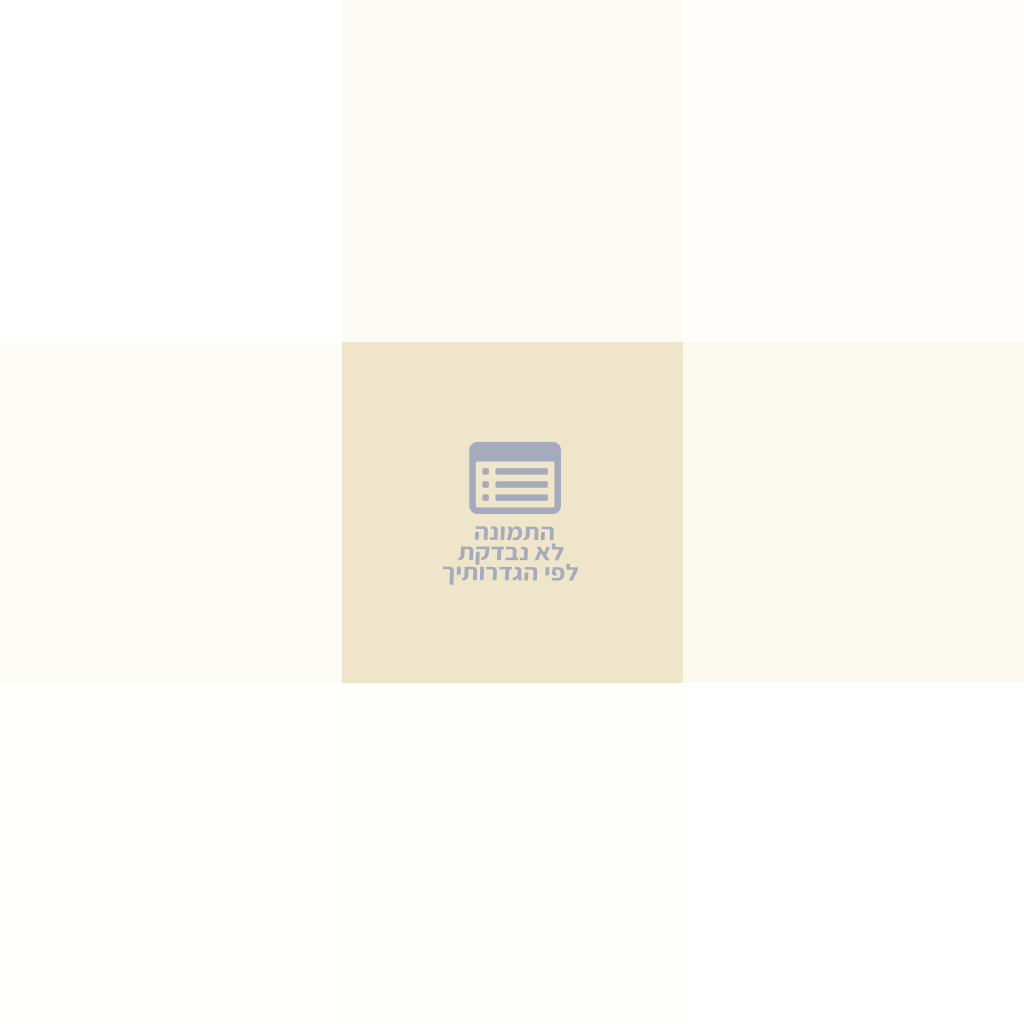
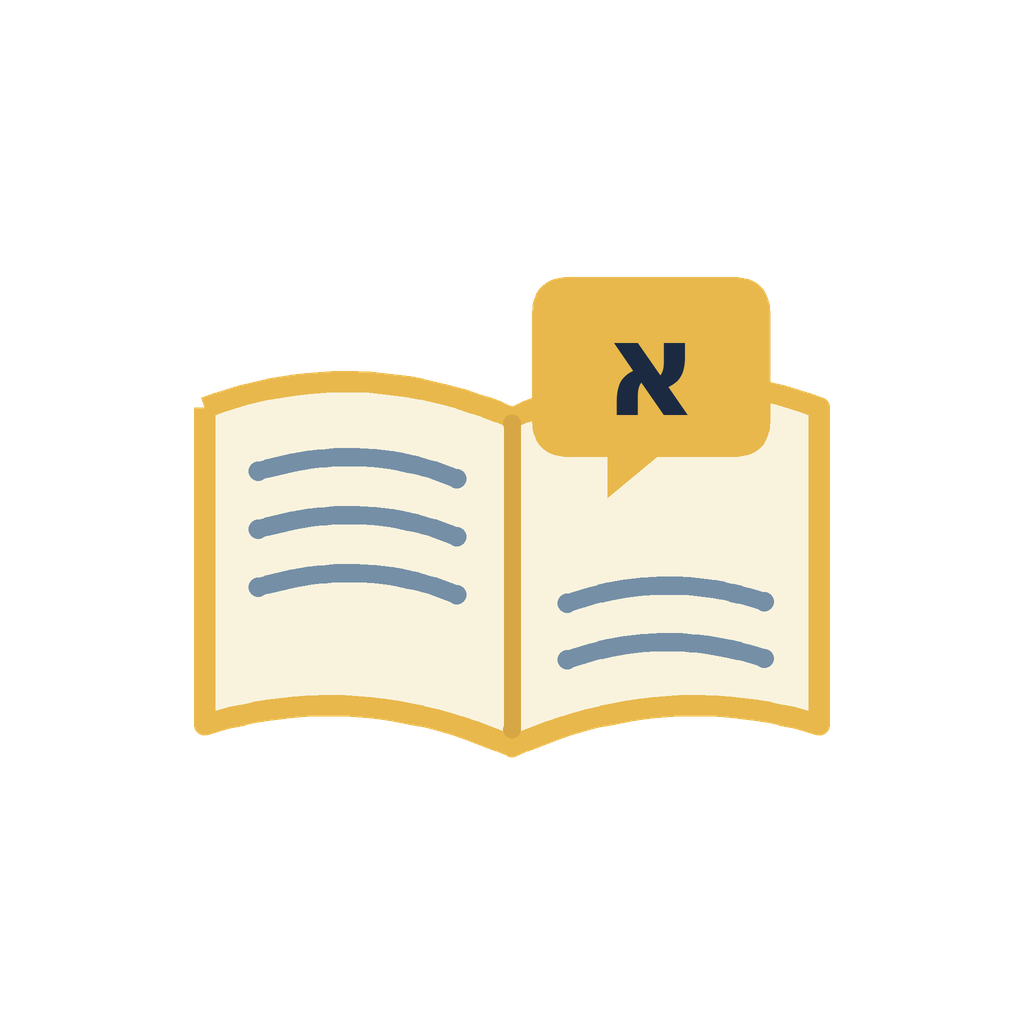
Add files via upload

Changed region(s): [[0.1875, 0.25, 0.8125, 0.75]]

diff --git a/App.js b/App.js
@@ -1,4 +1,4 @@
-import React, { useRef, useState, useEffect, useMemo, useCallback, createContext, useContext } from 'react';
+import React, { useRef, useState, useEffect, useMemo, useCallback, useDeferredValue, createContext, useContext } from 'react';
 import { View, Text, TouchableOpacity, Animated, TextInput, FlatList, StyleSheet, SafeAreaView, ScrollView, StatusBar, Alert, Share, BackHandler, Keyboard, Modal, Vibration, useColorScheme, useWindowDimensions, AppState } from 'react-native';
 import * as FS from 'expo-file-system';
 import RAW from './vocabulary.json';
@@ -131,10 +131,11 @@ function WordModal({ w, onClose }) {
 function Home({ pick, go }) {
   const { st, S, openWord } = useApp();
   const wod = DATA[dayNo() % DATA.length];
-  const done = DATA.filter((w) => S.learned[w.id]).length;
+  const done = useMemo(() => DATA.filter((w) => S.learned[w.id]).length, [S.learned]);
   const td = S.day === new Date().toDateString() ? S.today : 0;
   const goal = S.goal || 10;
-  const dueN = DATA.filter((w) => isDue(S, w.id)).length;
+  const dueN = useMemo(() => DATA.filter((w) => isDue(S, w.id)).length, [S.srs]);
+  const catStats = useMemo(() => TOPICS.map((c) => { const p = BYCAT[c.k] || []; return [p.length, p.filter((w) => S.learned[w.id]).length]; }), [S.learned]);
   const weakN = Object.keys(S.weak).length;
   const L = lvlInfo(S.xp);
   const week = [...Array(7)].map((_, i) => { const d = dayNo() - (6 - i); return { v: (S.hist || {})[d] || 0, l: DAYS[new Date(d * 864e5 + 432e5).getUTCDay()] }; });
@@ -185,17 +186,18 @@ function Home({ pick, go }) {
       <Text style={[st.h1, { marginTop: 10 }]}>קטגוריות</Text>
       <View style={st.grid}>
         {TOPICS.map((c, ix) => {
-          const p = poolOf(c.k, S), l = p.filter((w) => S.learned[w.id]).length;
+          const [n, l] = catStats[ix];
           return (
             <TouchableOpacity key={c.k} style={st.cat} onPress={() => pick(c.k)}>
               <View style={[st.strip, { backgroundColor: COL[ix % 6] }]} /><Text style={st.emoji}>{c.i}</Text>
               <Text style={st.catName}>{c.n}</Text>
-              <Text style={st.sub}>{l}/{p.length}</Text>
-              <Bar pct={p.length ? l / p.length : 0} color={COL[ix % 6]} />
+              <Text style={st.sub}>{l}/{n}</Text>
+              <Bar pct={n ? l / n : 0} color={COL[ix % 6]} />
             </TouchableOpacity>
           );
         })}
       </View>
+      <Text style={{ textAlign: 'center', fontSize: 10, color: st.softC, opacity: 0.7, marginTop: 18, marginBottom: 6 }}>קרדיט: יהודי לא פשוט @ מתמחים טופ</Text>
     </ScrollView>
   );
 }
@@ -508,7 +510,7 @@ function Search() {
   const [q, setQ] = useState('');
   const [fc, setFc] = useState('all');
   const [fs, setFs] = useState('all');
-  const k = norm(q);
+  const k = norm(useDeferredValue(q));
   const res = useMemo(() => {
     let b = fc === 'all' ? DATA : DATA.filter((w) => w.c === fc);
     if (fs === 'learned') b = b.filter((w) => S.learned[w.id]); else if (fs === 'new') b = b.filter((w) => !S.learned[w.id]); else if (fs === 'fav') b = b.filter((w) => S.fav[w.id]);
@@ -525,7 +527,7 @@ function Search() {
         {TOPICS.map((c) => <Chip key={c.k} on={fc === c.k} label={c.i + ' ' + c.n} onPress={() => setFc(c.k)} />)}
       </ScrollView></View>
       <Text style={st.sub}>{res.length} תוצאות</Text>
-      <FlatList data={res} keyExtractor={(w) => w.id} contentContainerStyle={{ padding: 16 }} keyboardShouldPersistTaps="handled" initialNumToRender={20}
+      <FlatList data={res} keyExtractor={(w) => w.id} contentContainerStyle={{ padding: 16 }} keyboardShouldPersistTaps="handled" initialNumToRender={14} maxToRenderPerBatch={16} windowSize={7} removeClippedSubviews
         ListEmptyComponent={<Text style={st.sub}>לא נמצאו תוצאות. נסו מילה אחרת.</Text>}
         renderItem={({ item }) => (
           <TouchableOpacity style={st.item} onPress={() => openWord(item)}>

diff --git a/README.md b/README.md
@@ -1,9 +1,15 @@
-# Yiddish Offline (Expo / React Native) — גרסה 2.0
+# Yiddish Offline (Expo / React Native) — גרסה 2.2
 אפליקציה ללימוד יידיש בלי חיבור לאינטרנט: כרטיסיות, חזרה חכמה, חידונים, זיווג וחיפוש.
 כל המילים נמצאות ב-`vocabulary.json`.
 
     npm install
     npx expo start --android
+
+## מה חדש ב-2.2
+- **תוקנו כל קבצי האייקון** (`icon.png`, `adaptive-icon.png`, `adaptive-mono.png`, `splash-icon.png`): חלקם הגיעו ריקים או כתמונת placeholder, והבנייה עלולה הייתה להיכשל. נוצרו מחדש לפי `icon.svg`.
+- מהיר יותר: מסך הבית מחשב סטטיסטיקות רק כשההתקדמות משתנה, החיפוש מגיב בלי לתקוע את ההקלדה, ורשימת התוצאות נטענת בחלקים.
+- קרדיט קטן בתחתית מסך הבית.
+- ניקוי הפרויקט: הוסרו workflow כפול (`main.yml` ותיקיית `github/` שלא בשימוש) וארכיון ישן. כעת בנייה אחת, `build-apk.yml`.
 
 ## מה חדש ב-2.1
 - ממשק משודרג: פלטת צבעים עדינה יותר, כרטיסים עם מסגרת וצל רך, כפתורים וסרגל תחתון צפים, פס התקדמות דק, משוב לחיצה, וברכה לפי שעות היום במסך הבית.
@@ -22,4 +28,4 @@
 הקטגוריות מוגדרות ב-`TOPICS` בתחילת `App.js`.
 
 ## בניית APK ב-GitHub
-דחיפה ל-`main` (או הרצה ידנית מלשונית Actions) מפעילה את `main.yml`. בסיום מורידים את `yiddish-offline-apk` מה-Artifacts.
+דחיפה ל-`main` (או הרצה ידנית מלשונית Actions) מפעילה את `build-apk.yml`. בסיום מורידים את `yiddish-offline-apk` מה-Artifacts.
